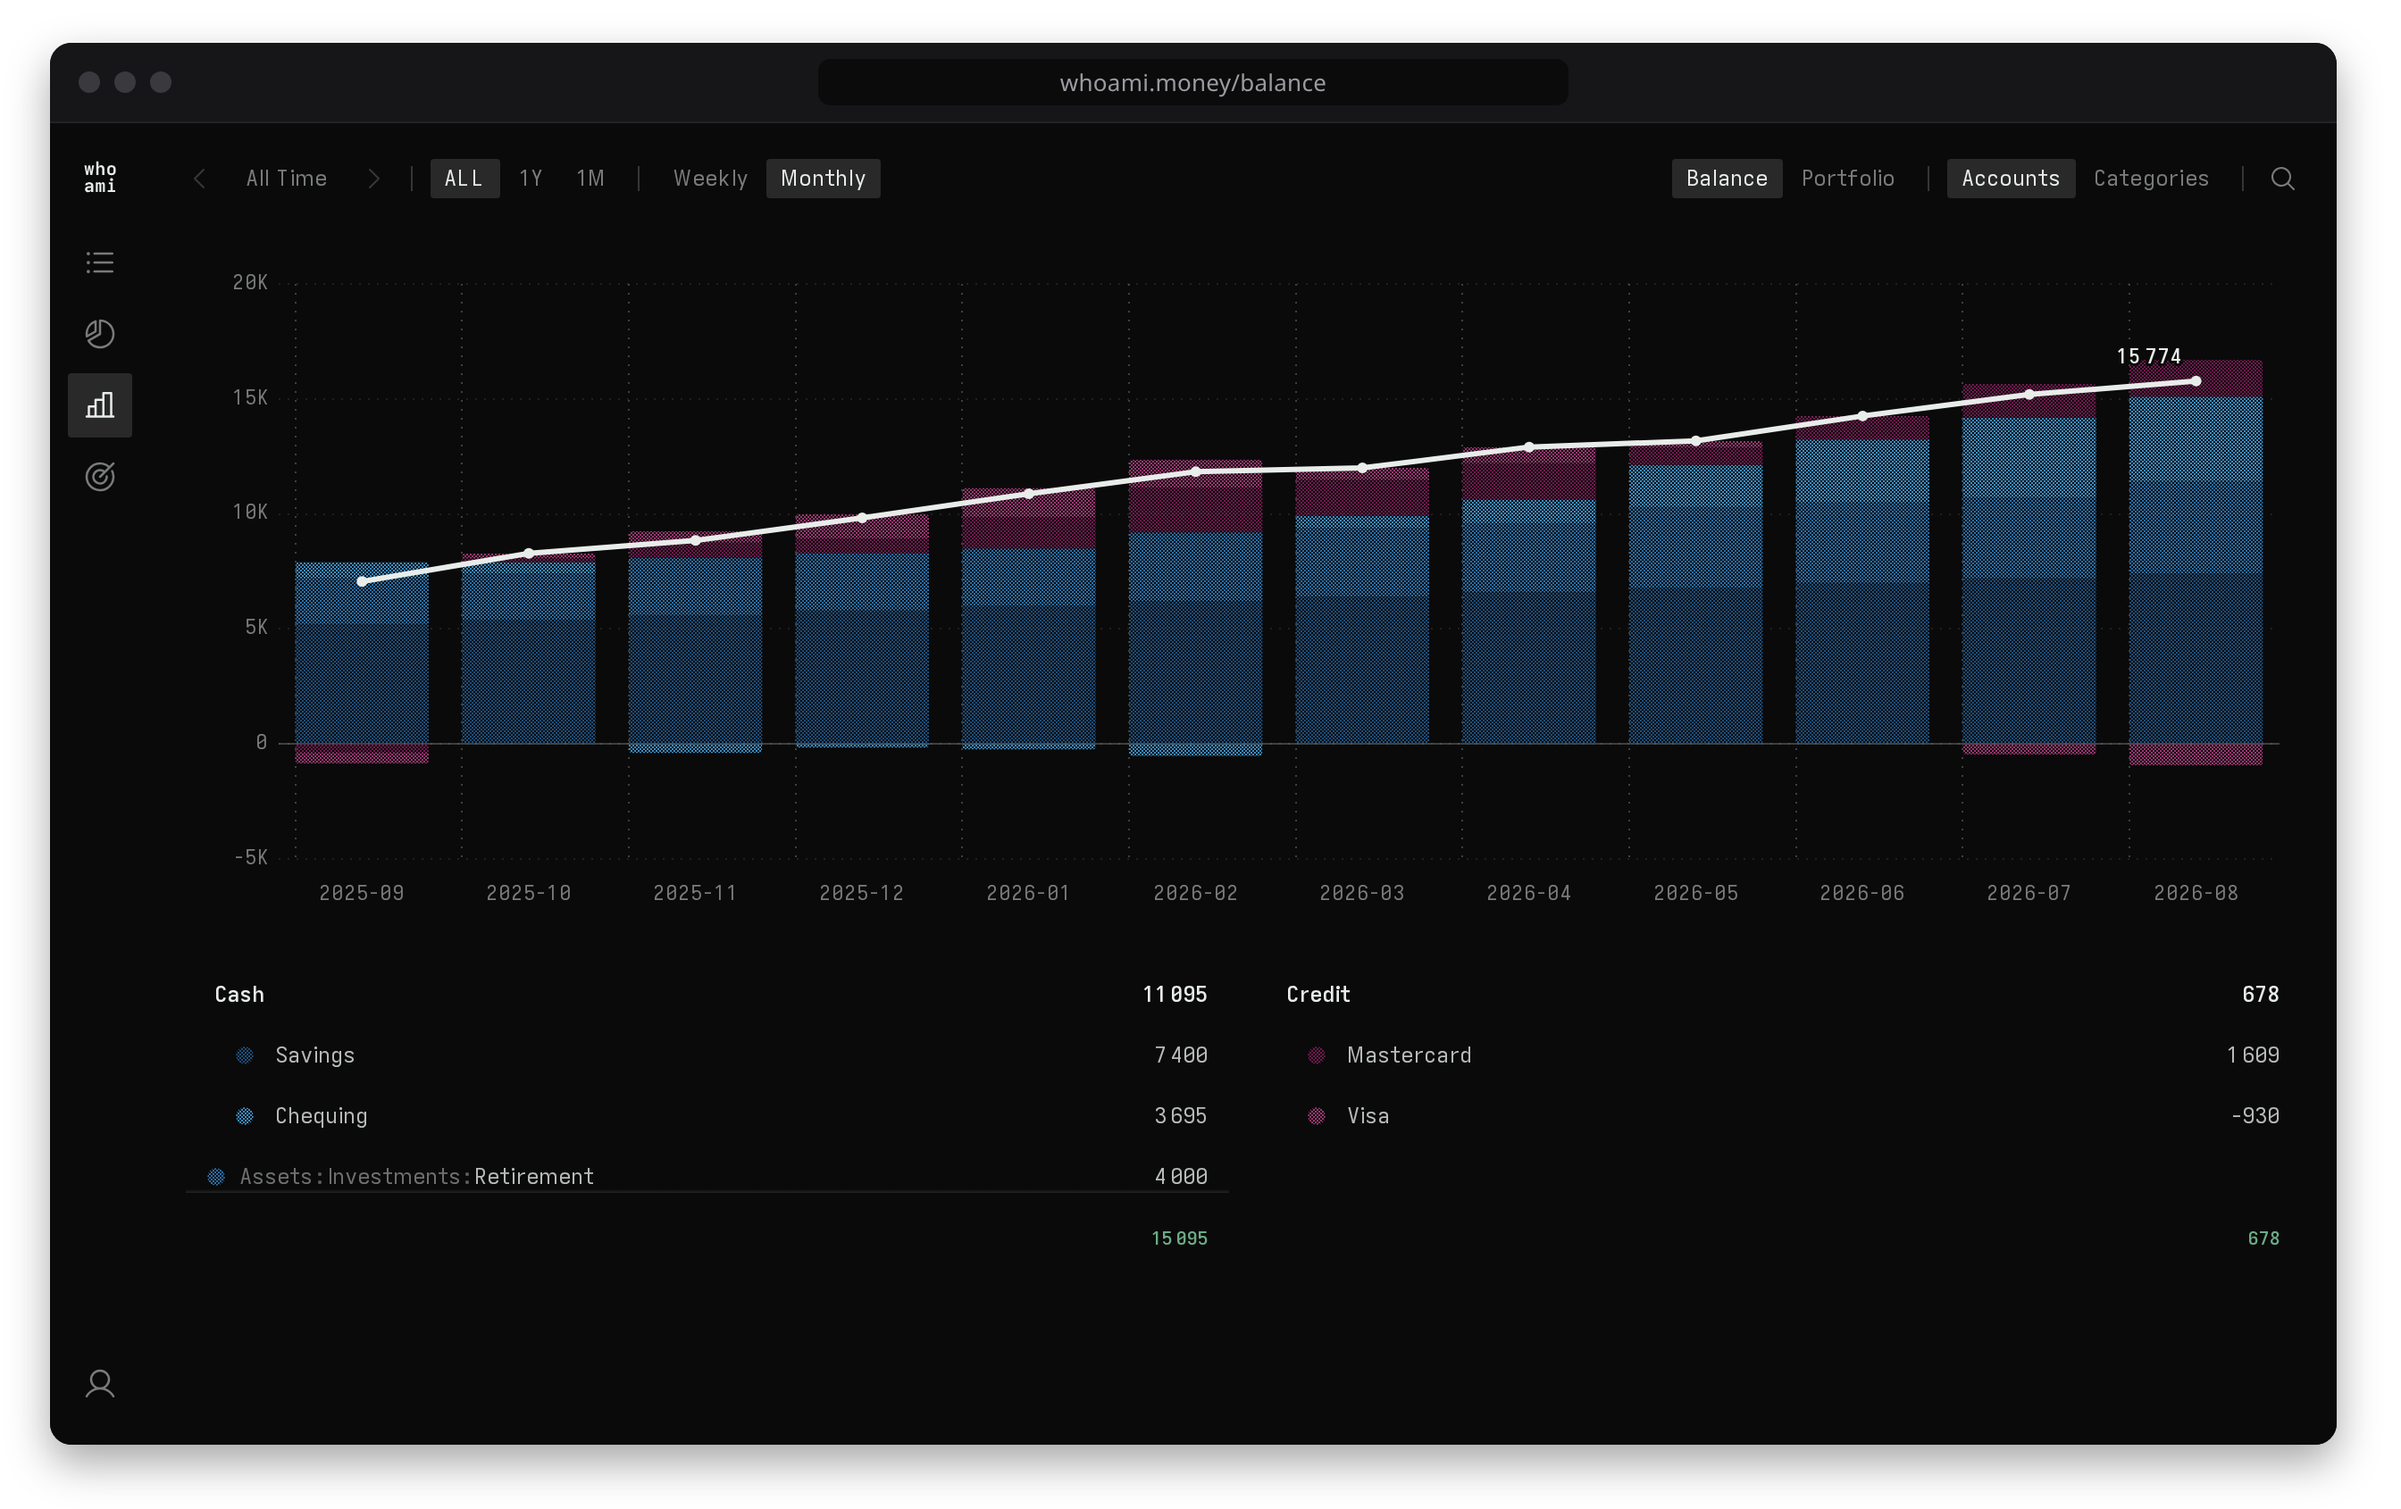
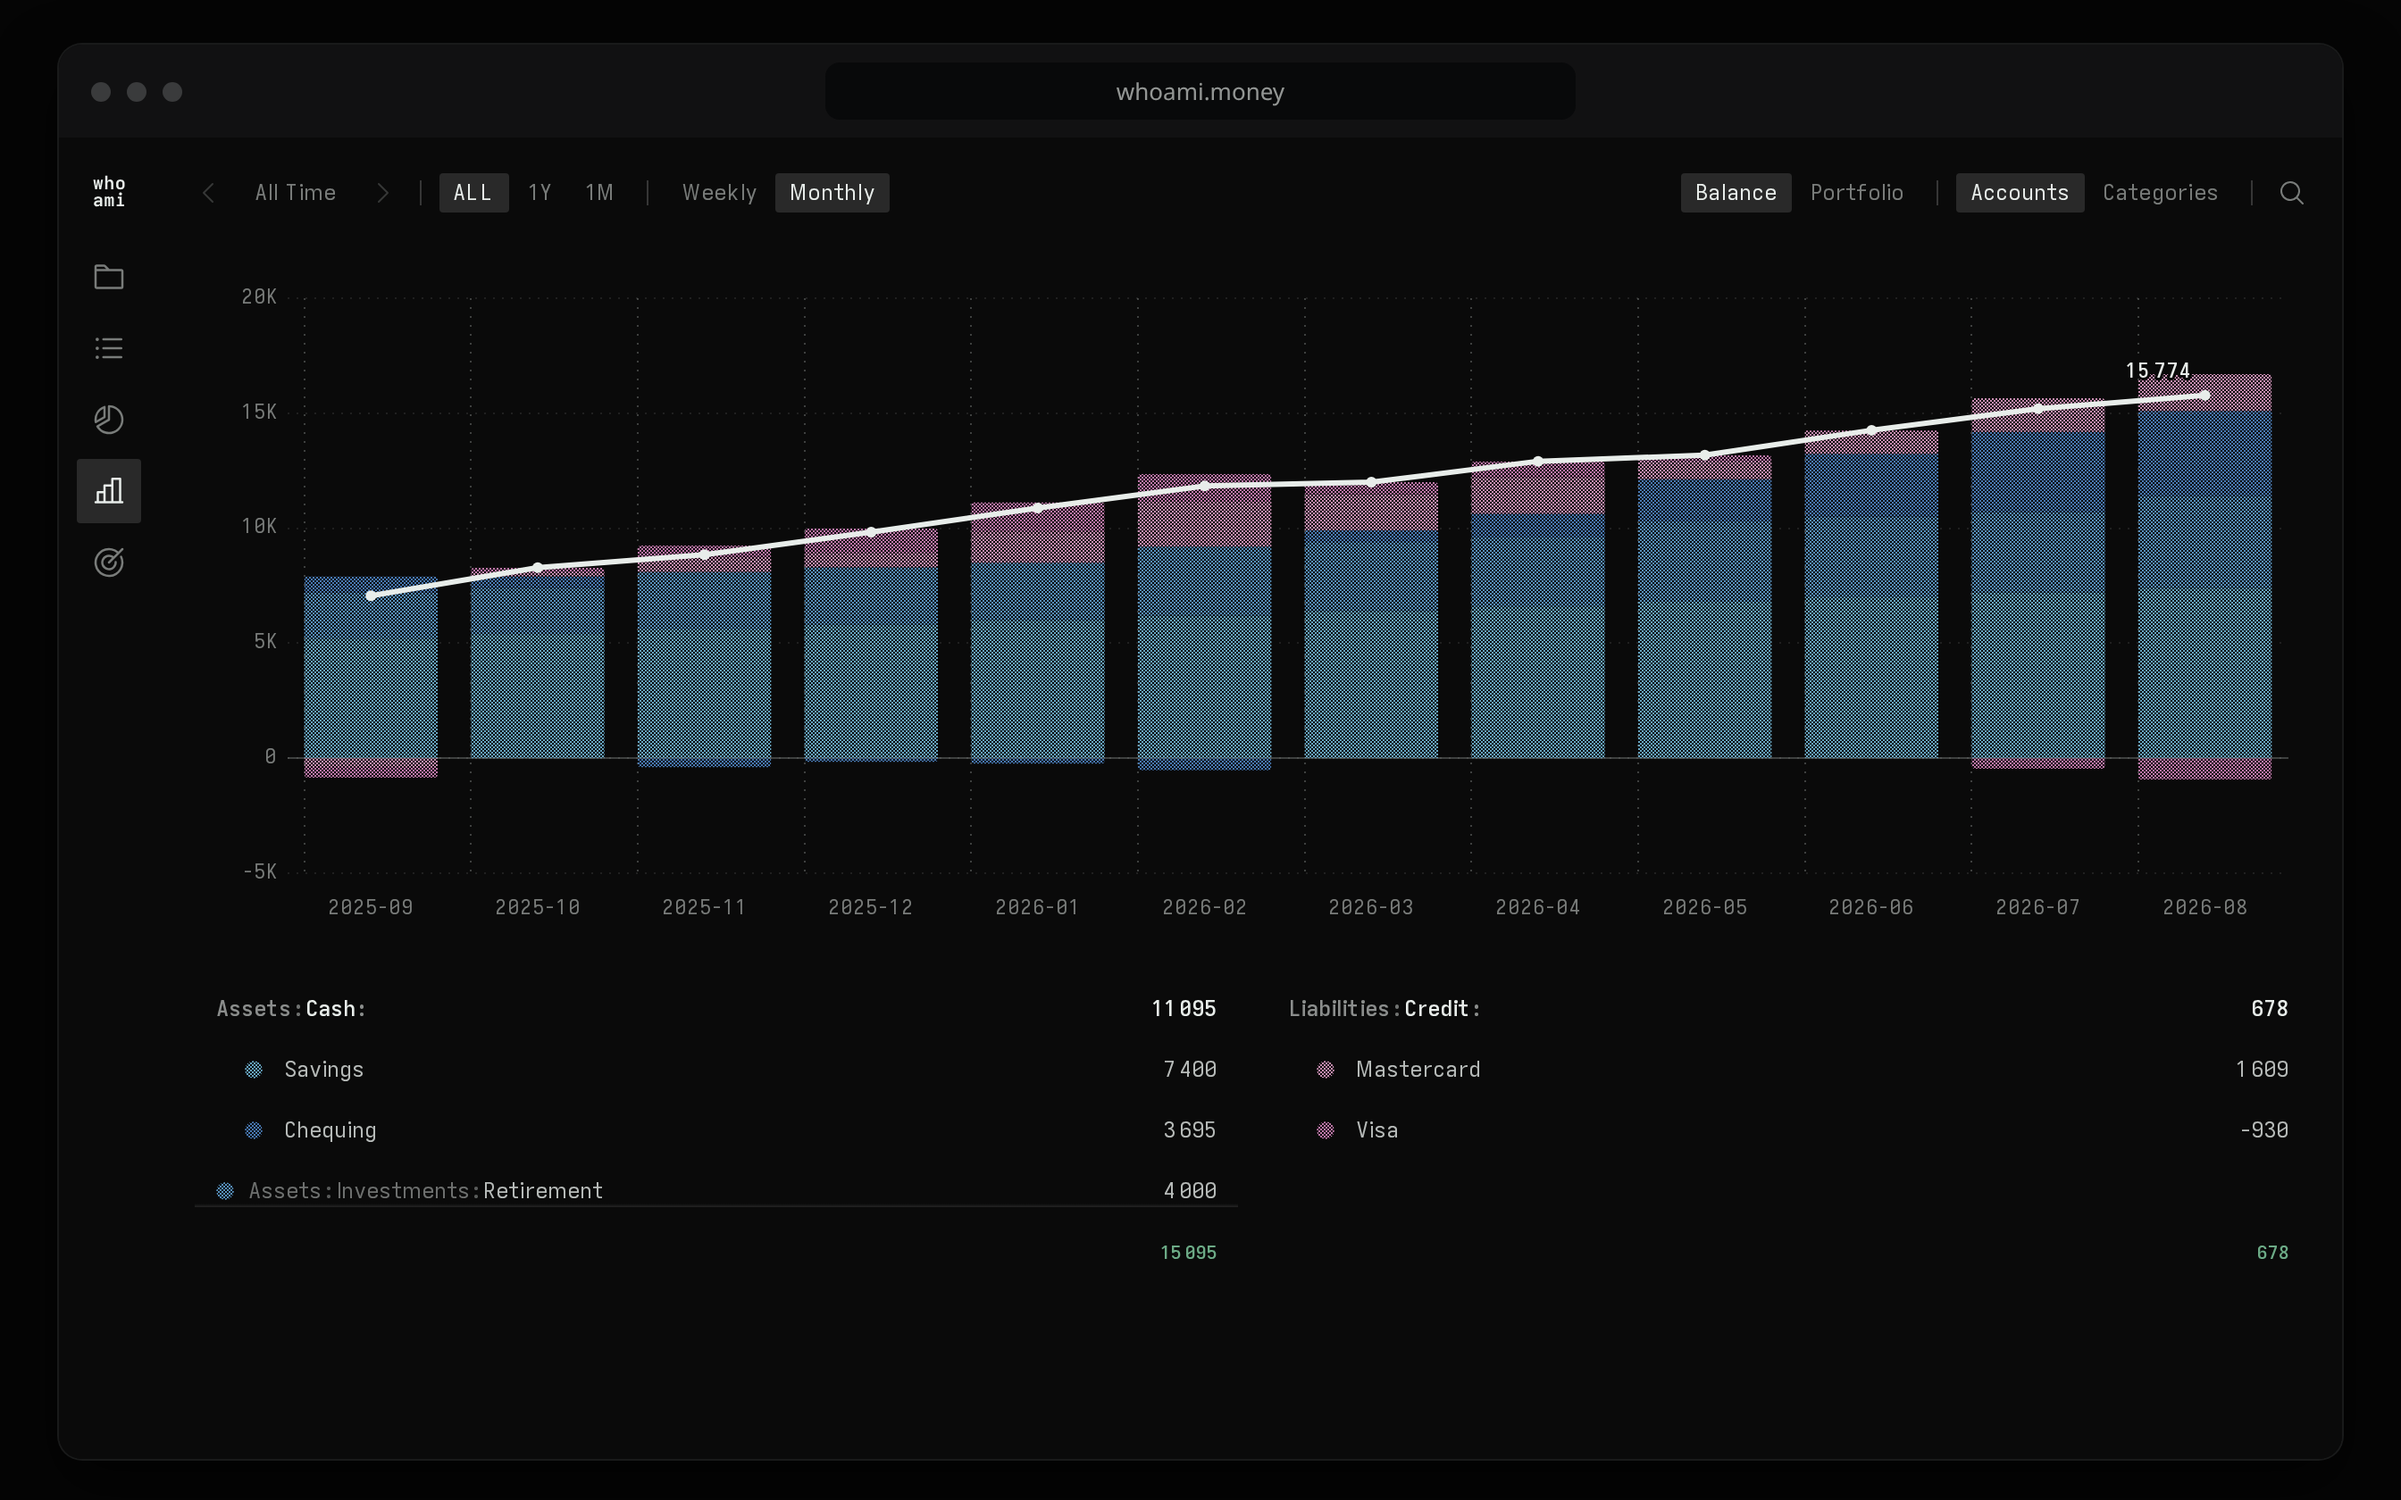
The front page says what it is, what it costs and who made it, and the pictures are of this week's app
The name needs help: "whoami" is a Unix command, a rapper and a betting app, so
the line under it is a description now — private personal plain-text finance app
— matching the tab, the link preview and the social card. The lede says what it
is in the words people search for: a private budgeting app with no bank login,
a Mint or YNAB alternative with nothing to sign up for, a CSV finance tracker.

Three sections that were missing entirely. What it costs: the app is free and
stays free, sync is the part with a server behind it and sync is what will cost
money. What it runs on: any browser, installed as a web app on any of five
operating systems, offline. Who made it: one person, in the first person.

Getting your transactions in has a section and a picture of its own — four
ways, none of them a bank login — and Review has one too.

The screenshots are regenerated (scripts/screenshots.mjs in the app repo), and
two of them are new. The old pair showed a UI that has not existed for days: a
person glyph at the foot of the rail, a toolbar of facets that have since
moved. The frame is drawn in markup now rather than by hand, so the next
refresh is one command.

The issue forms told reporters to find the version at "Journal -> Guide", which
is not where it is; it is the last line of Home, About, the file page or the
account page.

diff --git a/README.md b/README.md
@@ -1,12 +1,13 @@
 <p align="center">
-  <a href="https://whoami.money"><img src="docs/balance.png" alt="whoami.money — balance sheet over time, with the net line and the accounts beneath it"></a>
+  <a href="https://whoami.money"><img src="docs/balance.png" alt="whoami.money — what you own and owe, month by month, with the net line over it and the accounts beneath"></a>
 </p>
 
 <h1 align="center">whoami.money</h1>
 
 <p align="center">
-  <strong>Your money, in a file you own.</strong><br>
-  A personal finance tracker that runs entirely in your browser.
+  <strong>private personal plain-text finance app</strong><br>
+  Budget and track your money in one CSV file you own.<br>
+  No bank login. No account required. Encrypted sync if you want it.
 </p>
 
 <p align="center">
@@ -20,38 +21,80 @@
 ---
 
 Your ledger is a plain CSV on your device. Nothing leaves it unless you turn
-sync on, and even then the server only ever sees ciphertext. This repository
-is where problems and ideas are reported; the app's source is kept private,
-and the issues are public so you can see what has been reported and fixed.
+sync on, and even then the server only ever sees ciphertext. It never connects
+to your bank.
+
+If you have been looking for a private budgeting app with no bank login — a
+Mint or YNAB alternative with nothing to sign up for and no account aggregator
+in the middle — this is one. If you just want a CSV finance tracker you can
+open in a spreadsheet, it is that too.
+
+This repository is where you report problems and ideas. The app's source is
+private; the issues are public, so you can see what has been reported and what
+has been fixed.
 
 ## What it does
 
 ### A ledger, not an app with a database
 
 Every transaction is one line moving money from one account to another, the
-way a bookkeeper would write it, in a grid you can click, drag, fill down and
-paste into. Categories are account paths — `Expenses:Food:Groceries` — so
-sorting and hierarchy are the same act, and the whole thing round-trips through
-a CSV you can open in any spreadsheet.
+way a bookkeeper would write it. You type it in a grid: click a cell, drag a
+range, fill down, paste. Categories are account paths — `Expenses:Food:Groceries`
+— so sorting and hierarchy are the same act, and the whole thing round-trips
+through a CSV you can open in any spreadsheet.
 
 <p align="center">
   <a href="https://whoami.money"><img src="docs/ledger.png" alt="The ledger: a grid of transactions with the accounts nav beside it"></a>
+</p>
+
+### Getting your transactions in
+
+Four ways, and not one of them wants your online banking password. Open a CSV
+you already have. Import a statement from a bank or a card. Paste rows from a
+spreadsheet. Or type them.
+
+A statement can be CSV, OFX or QFX. The importer reads the file's own columns
+whatever shape they are in — a headerless export, decimal commas, a letterhead
+above the table, dates with no year in them. It works out which of your
+accounts the statement belongs to, and matches rows you already have instead of
+duplicating them. Categories come from your own past filings, and payees are
+restyled to the spelling you already use.
+
+<p align="center">
+  <a href="https://whoami.money"><img src="docs/import.png" alt="The import sheet: a bank CSV read into rows, payees restyled from block capitals, with the account it belongs to named"></a>
 </p>
 
 ### Reports that read a period
 
 | Page          | What it answers                                                             |
 | ------------- | --------------------------------------------------------------------------- |
-| **Balance**   | What you own and owe, month by month, with the net line on top              |
 | **Overview**  | Income against spending, and the saving rate on its own axis                |
+| **Balance**   | What you own and owe, month by month, with the net line on top              |
 | **Budget**    | Envelopes, with a class for the one-offs that break every budget            |
 | **Portfolio** | What your investments actually returned, from the revaluations you recorded |
 | **Future**    | A forecast that borrows the rate your own ledger measured                   |
 
+Every table in the app is the same grid as the ledger: click a cell, drag a
+range, copy it out. Click a bar or an account name and the page filters to
+it.
+
+<p align="center">
+  <a href="https://whoami.money"><img src="docs/overview.png" alt="Overview: income against expenses by month, with the period table beneath"></a>
+</p>
+
+### Review, before a number is wrong
+
+A panel beside the ledger reads the whole journal and tells you what looks
+off: a row entered twice, a row still uncategorised, an amount unlike every
+other one that payee has charged, a bill that has quietly stopped arriving, a
+holding nobody has valued in months. Click a finding and you land on the rows
+it is about.
+
 ### Private sync, if you want it
 
 The app is complete without an account. Sync is for two things: the same
-journal on your phone and your laptop, and a journal shared with a partner.
+journal on your phone and your laptop, and a journal shared with someone you
+live with.
 
 Turn it on and the app generates a random 256-bit account key on your device
 and shows it to you once. Everything you sync is encrypted with keys derived
@@ -74,6 +117,35 @@ journal enters a partner's code, the partner accepts, and from then on both
 devices push and pull the same encrypted records. The server can see that two
 accounts share a journal and how many records it holds, and nothing else.
 
+## What it costs
+
+The app is free, and there is nothing to sign up for. No trial, no plan, no
+payment of any kind in it. I will keep it that way for as long as I can: it
+runs in your browser, the journal is a file you own, and neither one depends on
+me being paid.
+
+Sync is the part with a bill behind it — a server, a database, hourly backups
+in another city — so sync is what will cost money. It is also the part you can
+skip. The app is complete without an account, and a journal that stays on your
+device is free to keep.
+
+## What it runs on
+
+Any modern browser, on any operating system. There is nothing to download to
+try it. Install it as a web app and it opens in a window of its own on macOS,
+Windows, Linux, Android and iOS, and works with no network at all. Your journal
+stays in that browser on that device, plus whatever CSV you export. Turn sync
+on and it follows you to another one.
+
+## Who made it
+
+One person, not a company. I am
+[@lazydancer](https://github.com/lazydancer): I write it, and I run the server
+it syncs to. What that server can and cannot see is written out on the app's
+own privacy page. The source is private, so the check that does not depend on
+trusting me is your browser's network log — it shows every request the page
+sends.
+
 ## Report a problem
 
 > **Never paste financial data.** No journal CSV, no bank statement, no account
@@ -81,8 +153,9 @@ accounts share a journal and how many records it holds, and nothing else.
 > can be reproduced with the app's built-in sample journal ("Look around first"
 > on the start screen) or with a few invented rows.
 
-Have three things ready: the app version (Journal → Guide, at the bottom),
-your browser and its version, and the exact steps you took. Check the
+Have three things ready: the app version (the last line of Home, About, the
+file page or the account page), your browser and its version, and the exact
+steps you took. Check the
 [open issues](https://github.com/lazydancer/whoami-money/issues) first and add
 to an existing one rather than opening a twin. Then pick a form:
 
@@ -96,7 +169,7 @@ Security problems go by email, not here — see [SECURITY.md](SECURITY.md).
 
 ## What happens next
 
-Reports are read by one person, in order. A confirmed bug gets the `bug` label
-and a note when the fix ships; an idea gets an honest reply about whether it
-fits. The measure for every change is the same: a personal ledger is yours, it
-stays on your device, and the app must earn any exception.
+I read them in order. A confirmed bug gets the `bug` label and a note when the
+fix ships; an idea gets an honest reply about whether it fits. The measure for
+every change is the same: a personal ledger is yours, it stays on your device,
+and the app has to earn any exception.
